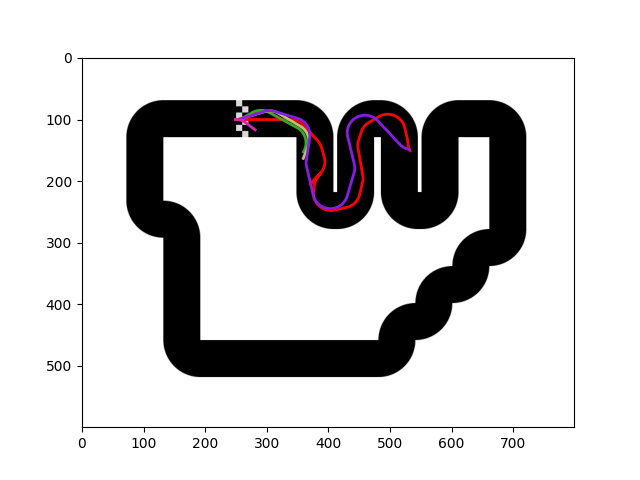
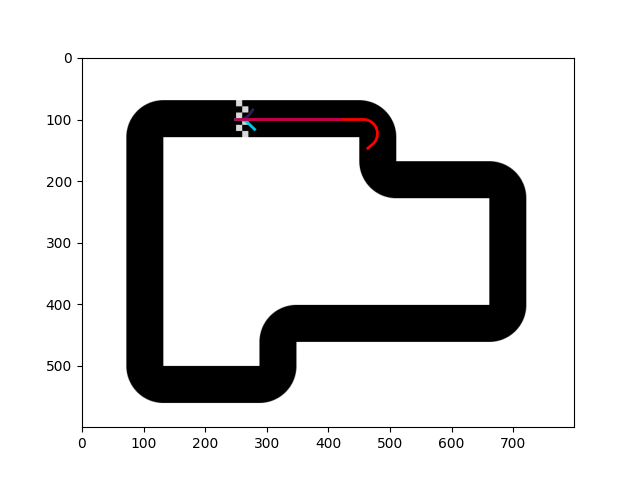
add versus

Changed region(s): [[0.1875, 0.4062, 0.8438, 0.8438], [0.375, 0.1875, 0.8438, 0.5]]

diff --git a/envs/game_env.py b/envs/game_env.py
@@ -8,7 +8,7 @@ from gymnasium import spaces
 from six import print_
 from torch.backends.quantized import engine
 
-from game.car import MAX_SPEED
+from game.car import MAX_SPEED, Car
 from game.engine import GameEngine
 from settings import WINDOW_WIDTH, WINDOW_HEIGHT, RAY_LENGTH, RAY_ANGLES
 
@@ -33,11 +33,12 @@ class Steering(Enum):
 class CarRacingEnv(gym.Env):
     metadata = {'render_modes': ["human", "rgb_array"], 'render_fps': 30}
 
-    def __init__(self, render_mode=None, no_fps_limiter=False):
+    def __init__(self, render_mode=None, no_fps_limiter=False, versus=False):
         super(CarRacingEnv, self).__init__()
 
         self.render_mode = render_mode
         self.no_fps_limiter = no_fps_limiter
+        self.versus = versus
 
         assert self.render_mode is None or self.render_mode in self.metadata["render_modes"]
 
@@ -52,6 +53,9 @@ class CarRacingEnv(gym.Env):
 
         self.clock = pygame.time.Clock()
         self.engine = GameEngine(self.screen)
+        if self.versus:
+            self.player_car = Car(self.engine.track.start_point[0],
+                                  self.engine.track.start_point[1])  # Slight offset
 
         # Define action and observation space
         # # Actions: [do nothing, accelerate, brake, turn_left, turn_right]
@@ -79,6 +83,7 @@ class CarRacingEnv(gym.Env):
         super().reset(seed=seed)
 
         self.engine.reset()
+        
         self.last_distance_traveled = 0
         self.last_checkpoint_index = 0
         return self._get_obs(), {}
@@ -197,6 +202,22 @@ class CarRacingEnv(gym.Env):
         return reward
 
     def render(self, mode='human'):
+        if self.versus:
+            keys = pygame.key.get_pressed()
+            if keys[pygame.K_UP]:
+                self.player_car.accelerate()
+            if keys[pygame.K_DOWN]:
+                self.player_car.brake()
+            if keys[pygame.K_LEFT]:
+                self.player_car.turn_left()
+            if keys[pygame.K_RIGHT]:
+                self.player_car.turn_right()
+
+            if not self.player_car.dead:
+                self.player_car.update(self.engine.track)
+                self.player_car.check_collision(self.engine.track)
+            self._draw_player_car()
+
         self.engine.draw()
 
         if self.render_mode == "human":
@@ -209,6 +230,14 @@ class CarRacingEnv(gym.Env):
             return np.transpose(
                 np.array(pygame.surfarray.pixels3d(self.screen)), axes=(1, 0, 2)
             )
+
+    def _draw_player_car(self):
+        # Draw a second car similarly to self.engine.car
+        car_surface = pygame.Surface((self.player_car.width, self.player_car.height), pygame.SRCALPHA)
+        pygame.draw.rect(car_surface, (0, 255, 0), (0, 0, self.player_car.width, self.player_car.height))
+        rotated_image = pygame.transform.rotate(car_surface, -self.player_car.angle)
+        rect = rotated_image.get_rect(center=self.player_car.position)
+        self.screen.blit(rotated_image, rect.topleft)
 
     def close(self):
         pygame.quit()

diff --git a/game/track.py b/game/track.py
@@ -10,7 +10,7 @@ TRACK_4 = "track_4.json"
 TRACK_5 = "track_5.json"
 TRACK_6 = "track_6.json"
 class Track:
-    def __init__(self, track_file=TRACK_6):
+    def __init__(self, track_file=TRACK_4):
         self._load_track_data(track_file)
         self._load_image()
         self._load_metadata()

diff --git a/rl/load.py b/rl/load.py
@@ -1,7 +1,7 @@
 from envs.game_env import CarRacingEnv
 from stable_baselines3 import PPO, DQN
 
-env = CarRacingEnv(render_mode="human")
+env = CarRacingEnv(render_mode="human", versus=True)
 
 # model = PPO.load("rl/ppo_car_racing.zip")
 model = PPO.load("ppo_car_racing")
